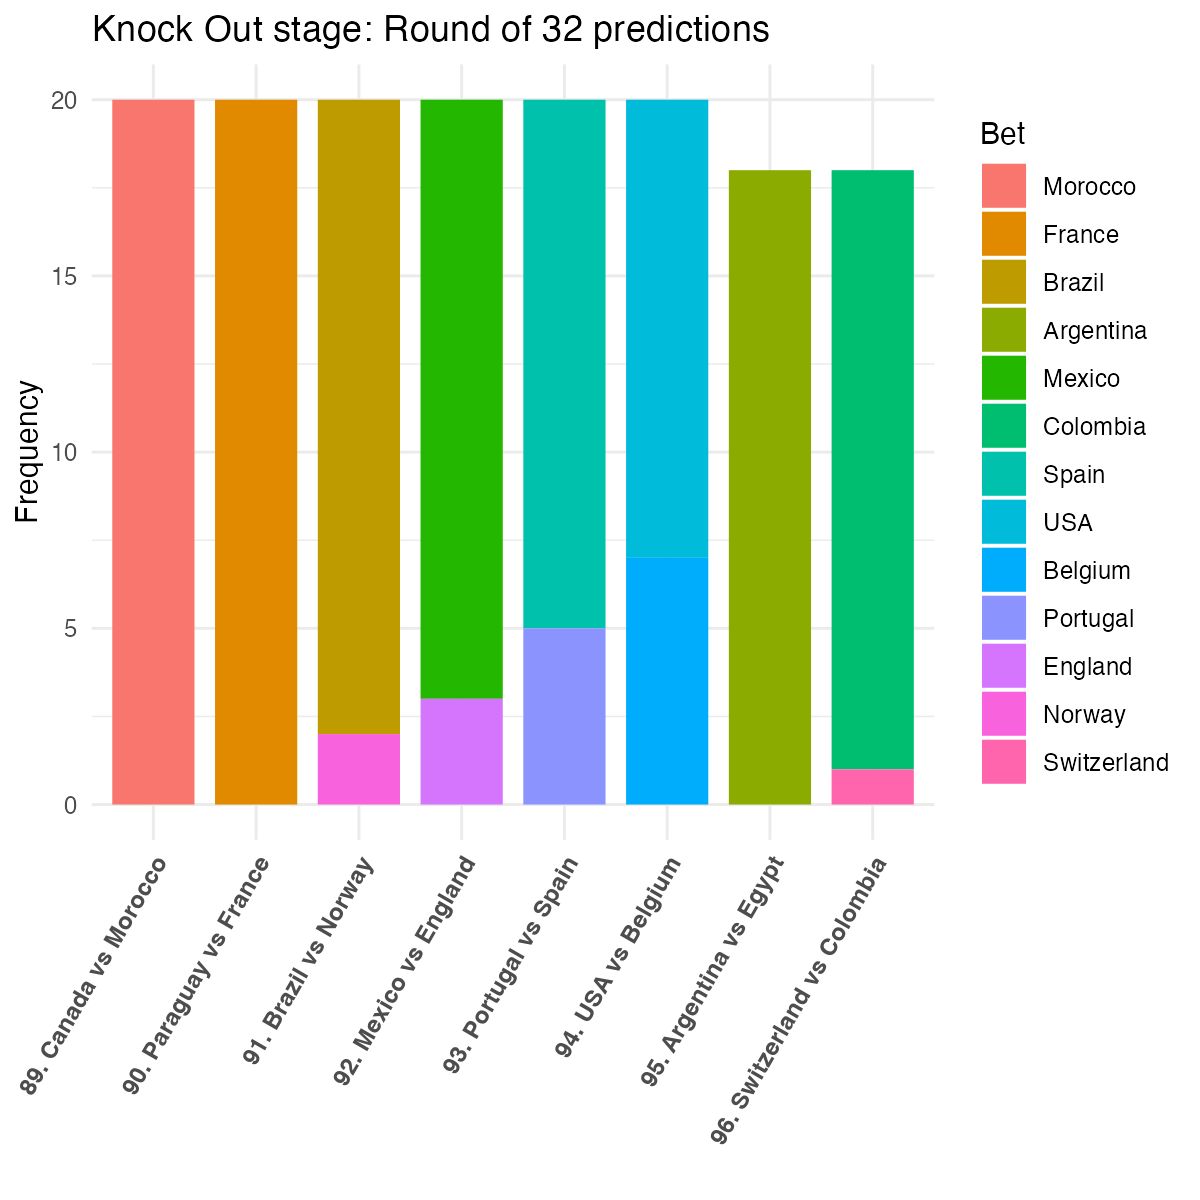
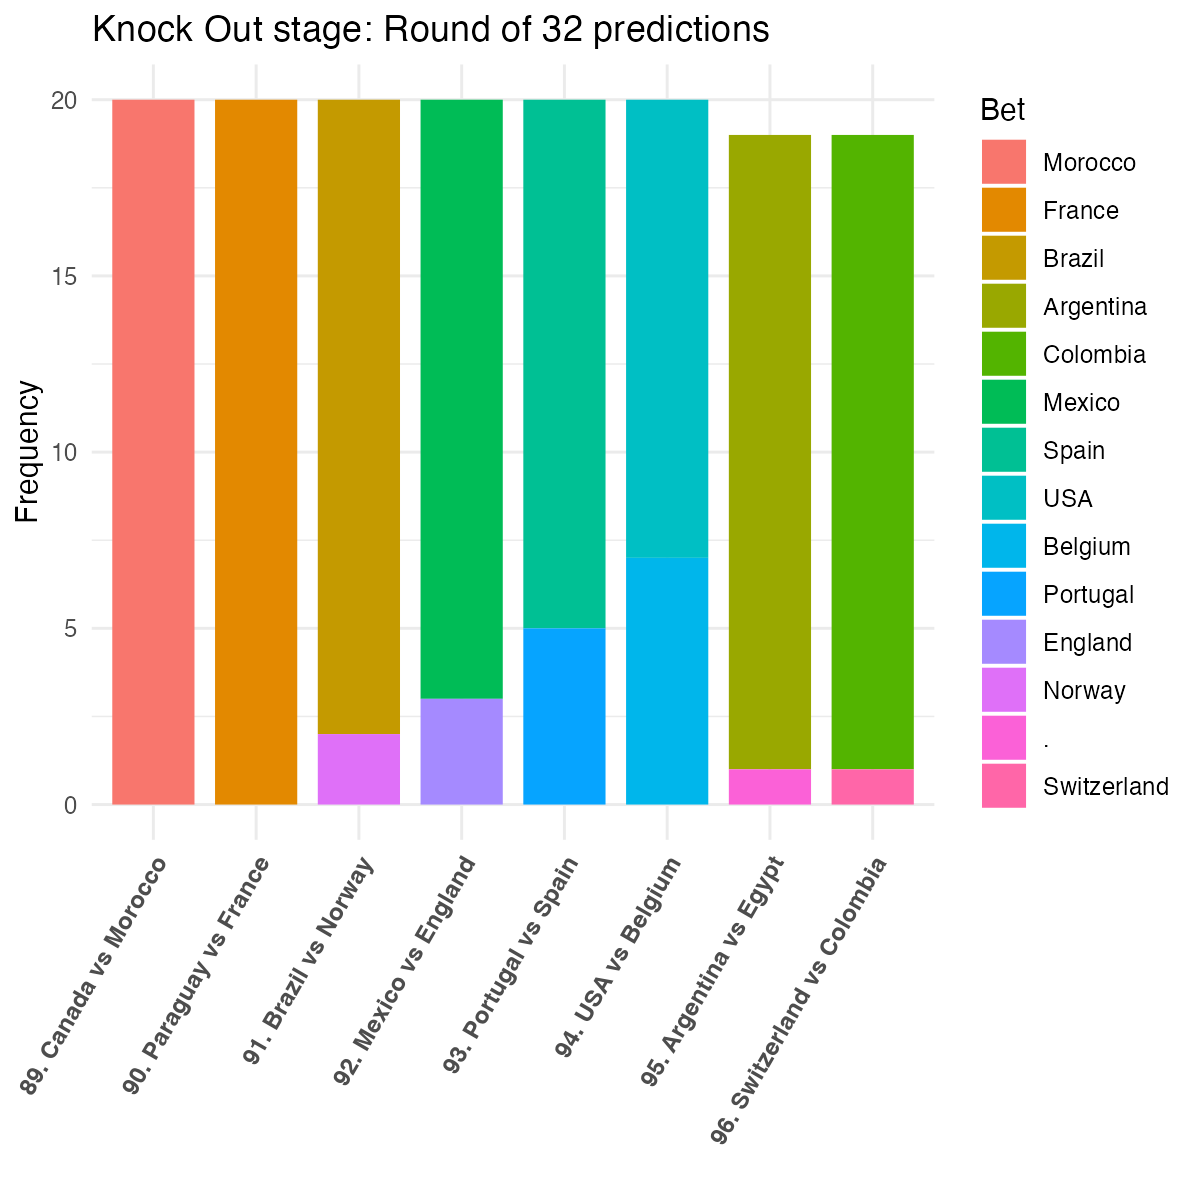
automatic README update

Changed region(s): [[0.8017, 0.0617, 0.9867, 0.6783], [0.2467, 0.0617, 0.5242, 0.6783], [0.5858, 0.0925, 0.7708, 0.6783]]

diff --git a/README.md b/README.md
@@ -1,4 +1,4 @@
-Last Update: Tue  7 Jul 2026 13:16:56 EDT
+Last Update: Tue  7 Jul 2026 13:22:11 EDT
 # **CANADA-USA-MEXICO FIFA WORLD CUP 2026**
 
 <p align=center>
@@ -62,7 +62,7 @@ Tie-Breaker 3: How far will Canada advance in the tournament?
 | Rubén Sánchez               | 005            | Morocco               | France                 | Brazil               | England               | Spain                 | USA                | Argentina              | Colombia                    |
 | Luis L                        | 006            | Morocco               | France                 | Brazil               | Mexico                | Spain                 | USA                | Argentina              | Colombia                    |
 | Rodrigo                       | 007            | Morocco               | France                 | Brazil               | Mexico                | Spain                 | Belgium            | Argentina              | Colombia                    |
-| Gov                           | 008            | Morocco               | France                 | Brazil               | England               | Spain                 | Belgium            | NA                     | NA                          |
+| Gov                           | 008            | Morocco               | France                 | Brazil               | England               | Spain                 | Belgium            | .                      | Colombia                    |
 | Vladi                         | 009            | Morocco               | France                 | Brazil               | Mexico                | Portugal              | Belgium            | Argentina              | Colombia                    |
 | Daniel Jimenez Gomez          | 010            | Morocco               | France                 | Norway               | Mexico                | Spain                 | USA                | Argentina              | Colombia                    |
 | Ernesto                       | 011            | Morocco               | France                 | Brazil               | Mexico                | Spain                 | USA                | Argentina              | Colombia                    |
@@ -88,7 +88,7 @@ Tie-Breaker 3: How far will Canada advance in the tournament?
 | 005            | 0-2                                    | 1-2                                     | 2-1                                   | 1-1                                    | 1-3                                    | 2-1                                 | 2-0                                     | 0-1                                          |
 | 006            | 1-2                                    | 0-2                                     | 1-0                                   | 1-0                                    | 1-2                                    | 1-1                                 | 2-0                                     | 0-1                                          |
 | 007            | 0-2                                    | 0-2                                     | 2-1                                   | 1-1                                    | 1-2                                    | 1-1                                 | 2-0                                     | 0-1                                          |
-| 008            | 1-3                                    | 0-5                                     | 3-1                                   | 2-2                                    | 1-3                                    | 0-2                                 | NA                                      | NA                                           |
+| 008            | 1-3                                    | 0-5                                     | 3-1                                   | 2-2                                    | 1-3                                    | 0-2                                 | .                                       | 0-2                                          |
 | 009            | 1-1                                    | 1-2                                     | 2-1                                   | 1-1                                    | 1-0                                    | 1-2                                 | 2-0                                     | 0-1                                          |
 | 010            | 1-4                                    | 1-3                                     | 2-3                                   | 3-1                                    | 2-4                                    | 2-1                                 | 2-1                                     | 1-2                                          |
 | 011            | 1-2                                    | 0-3                                     | 3-2                                   | 2-1                                    | 1-3                                    | 2-1                                 | 3-1                                     | 1-2                                          |